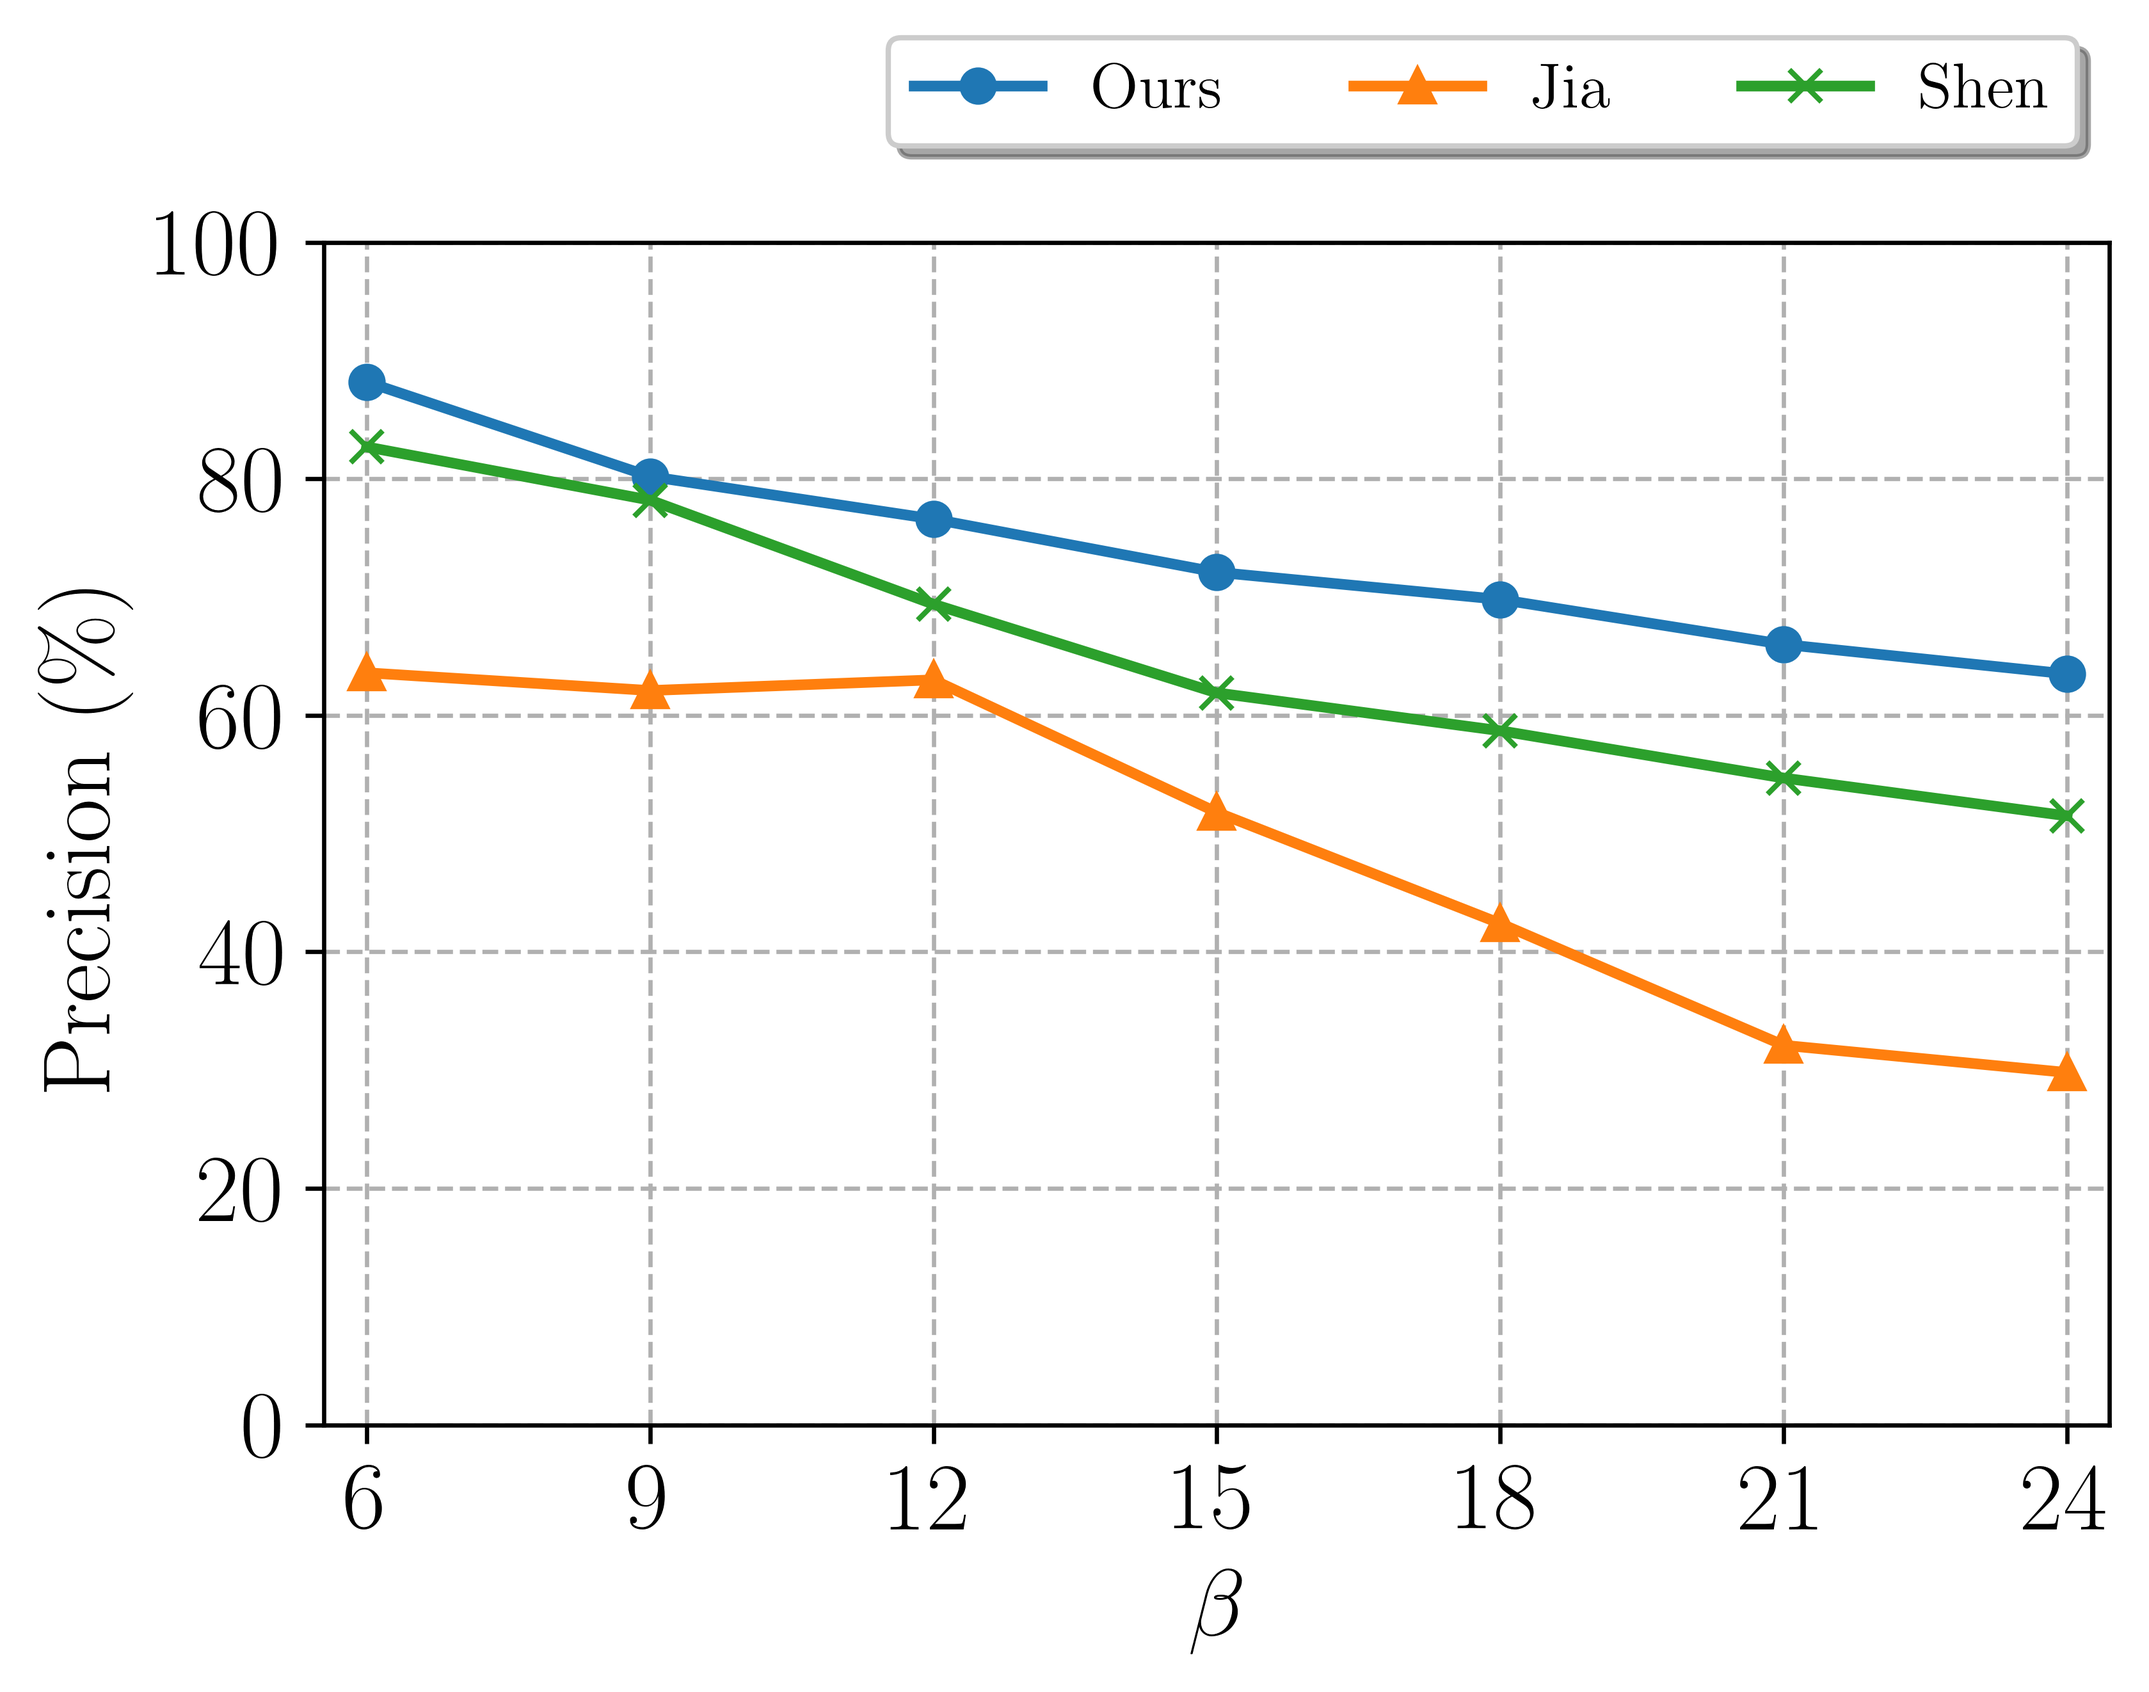
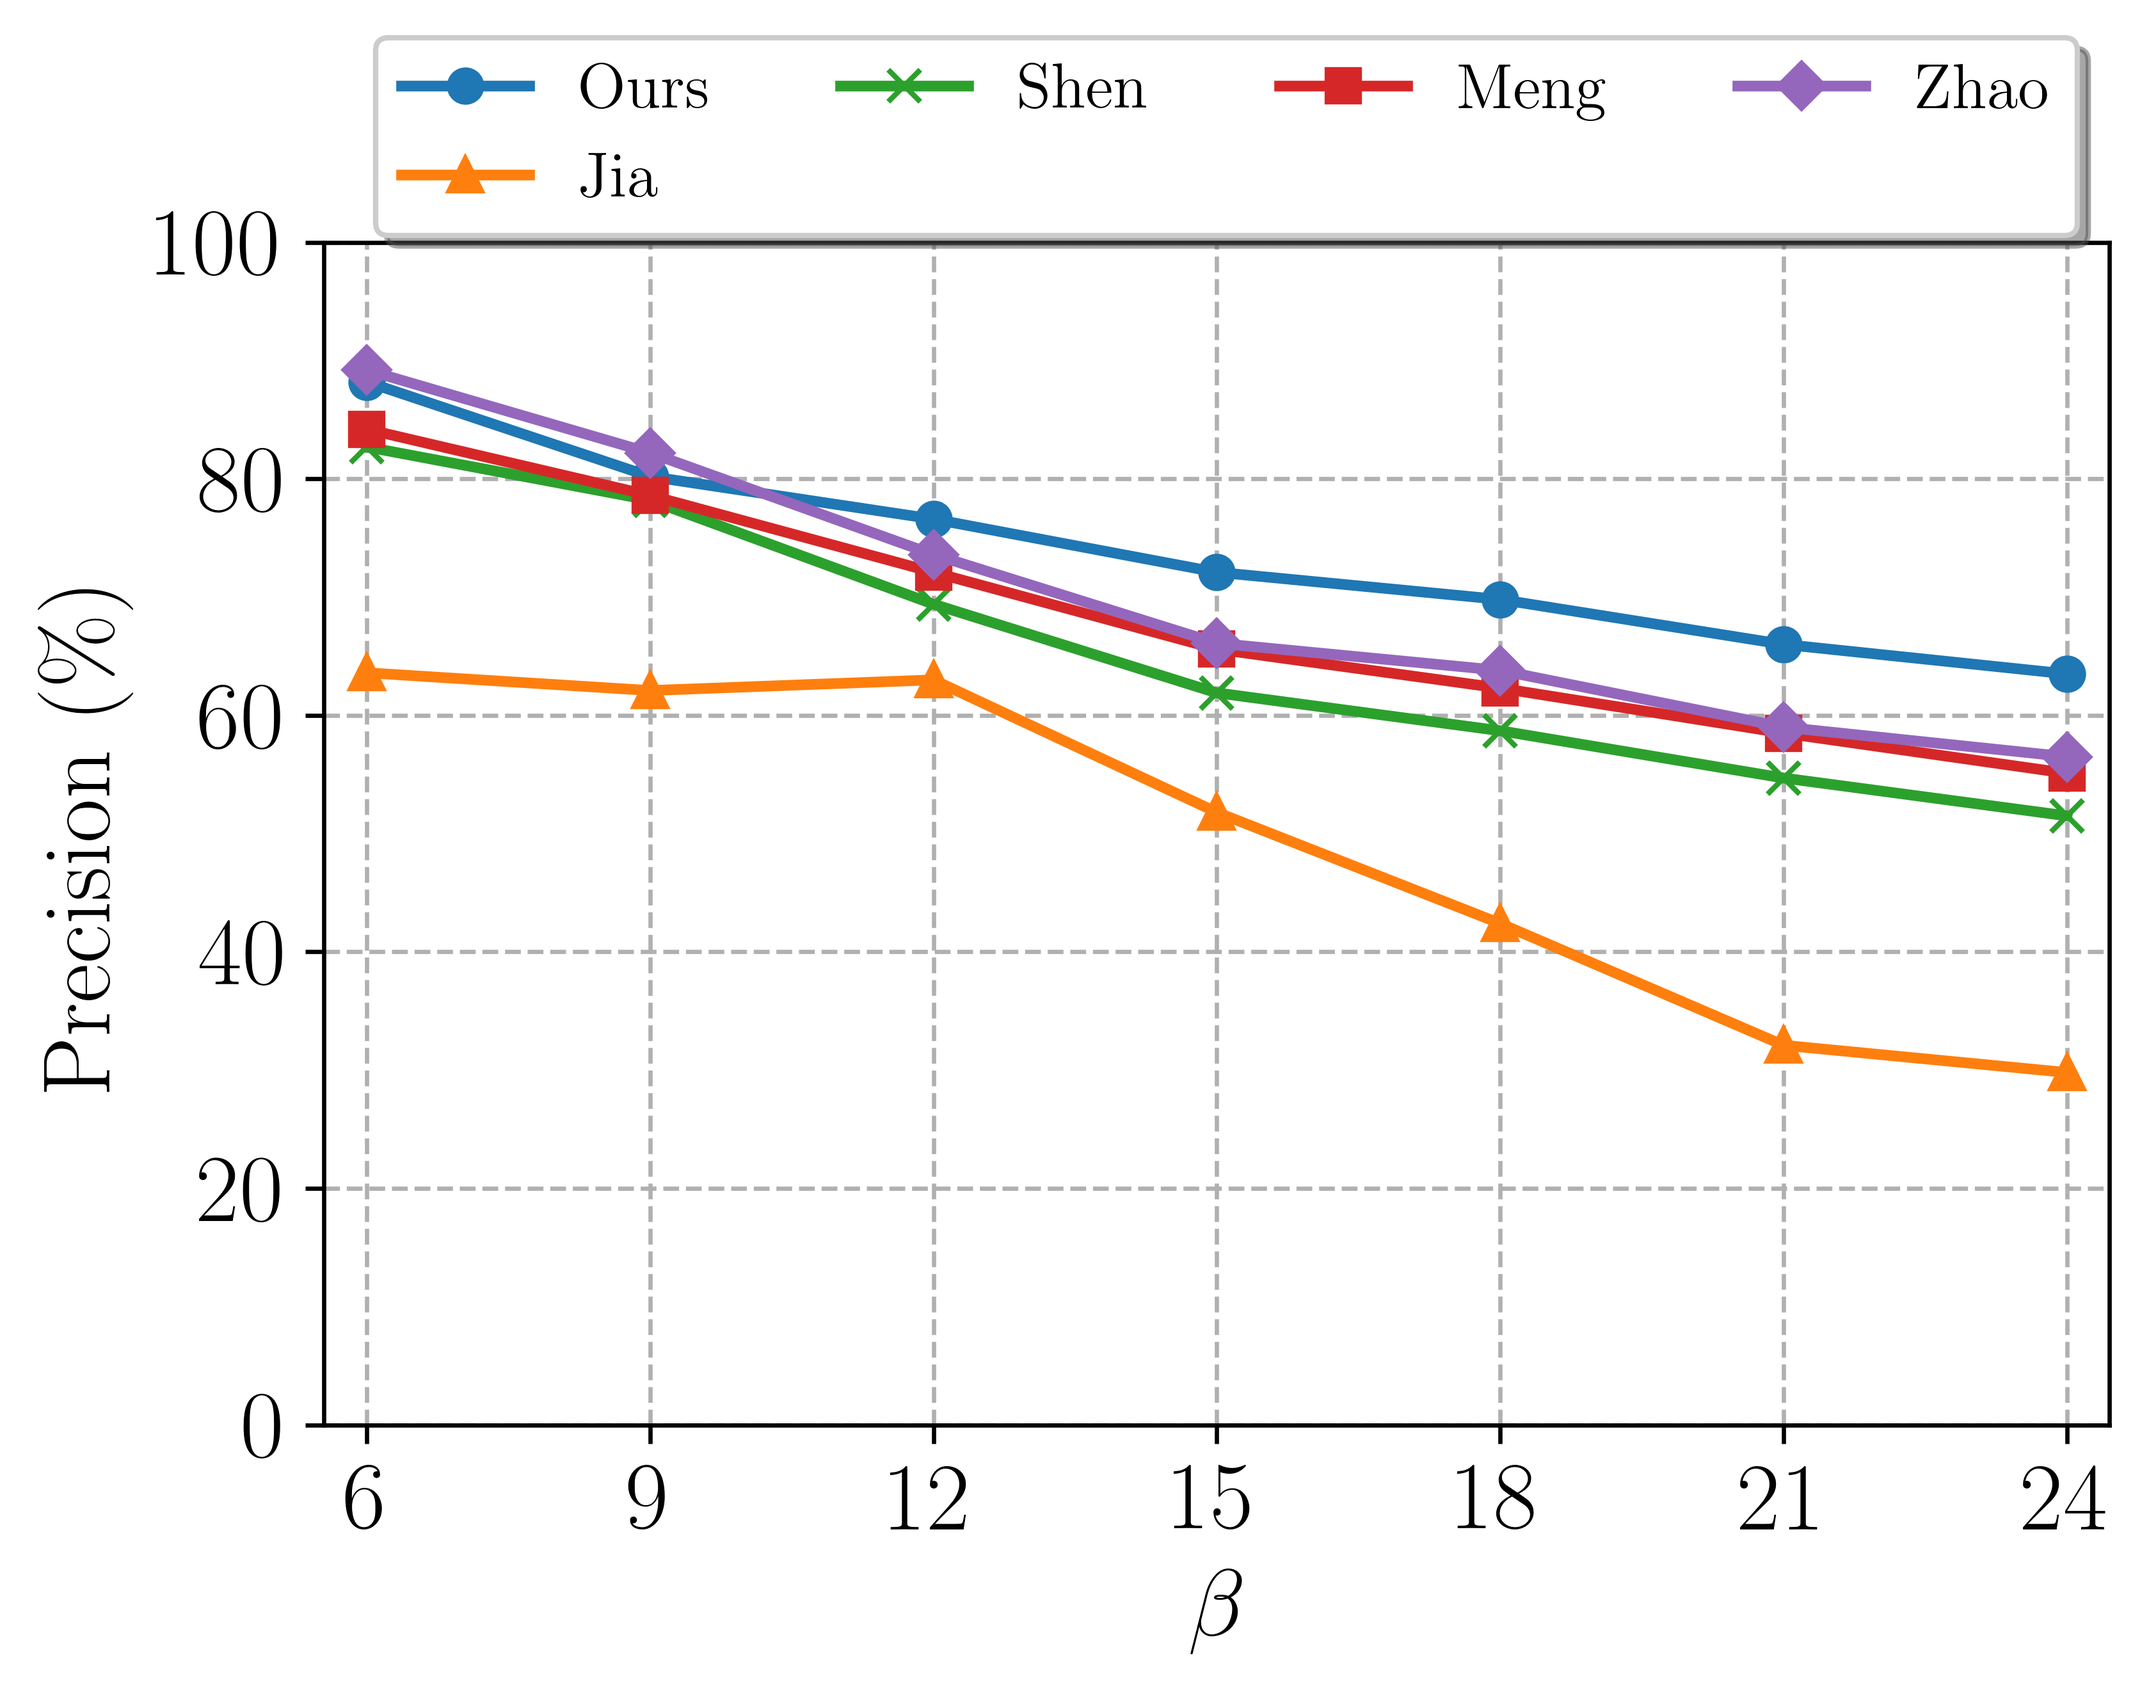
wip

diff --git a/draw.py b/draw.py
@@ -42,7 +42,7 @@ def plot_line_chart(args):
     fig.patch.set_alpha(0)  # Set figure background to transparent
     ax.patch.set_alpha(0)   # Set axes background to transparent
     
-    markerlist = ['o', '^', 'x', 's']
+    markerlist = ['o', '^', 'x', 's', 'D']
     for i in range(ynum):
         ax.plot(x, y[i, :], label=labellist[i] if labellist else None, 
                 marker=markerlist[i], markersize=6, linewidth=2)
@@ -135,12 +135,16 @@ def main():
     y_pre_beta = np.array([
         [88.2, 80.2, 76.6, 72.1, 69.8, 66.0, 63.5],
         [63.6, 62.1, 63.0, 51.8, 42.4, 32.1, 29.8],
-        [82.7, 78.2, 69.4, 61.9, 58.7, 54.7, 51.5]
+        [82.7, 78.2, 69.4, 61.9, 58.7, 54.7, 51.5],
+        [84.2, 78.6, 72.1, 65.6, 62.3, 58.5, 55.1],
+        [89.2, 82.2, 73.6, 66.1, 63.8, 59.0, 56.5]
     ])
     y_recall_beta = np.array([
-        [76.7, 70.2, 61.6, 62.1, 59.8, 53.0, 48.5],
+        [86.7, 80.2, 71.6, 72.1, 69.8, 63.0, 58.5],
         [55.6, 41.8, 30.1, 25.4, 26.7, 21.0, 18.3],
-        [62.2, 62.4, 53.1, 44.4, 45.7, 32.5, 26.5]
+        [62.2, 62.4, 53.1, 44.4, 45.7, 32.5, 26.5],
+        [64.2, 58.6, 52.1, 45.6, 46.3, 41.5, 38.1], # should be higher
+        [72.2, 62.2, 53.6, 46.1, 43.8, 38.0, 35.5] # should be higher
     ])
     beta_plots = generate_plots_data(x_beta, y_pre_beta, y_recall_beta, 'beta', 24, 100, x_beta, 6, 0, [0, 20, 40, 60, 80, 100])
 
@@ -173,11 +177,13 @@ def main():
     iou_plots = generate_plots_data(x_iou, y_pre_iou, y_recall_iou, 'IoU', 0.96, 100, x_iou, 0.78, 0, [0, 20, 40, 60, 80, 100])
 
     # Combine all plot data
-    all_plots = beta_plots + d_plots + iou_plots
+    # all_plots = beta_plots + d_plots + iou_plots
+    
 
     # Use multiprocessing to generate plots in parallel
     with Pool(processes=min(9, cpu_count())) as pool:
-        pool.map(plot_line_chart, all_plots)
+        # pool.map(plot_line_chart, all_plots)
+        pool.map(plot_line_chart, beta_plots)
 
 if __name__ == "__main__":
     main()
